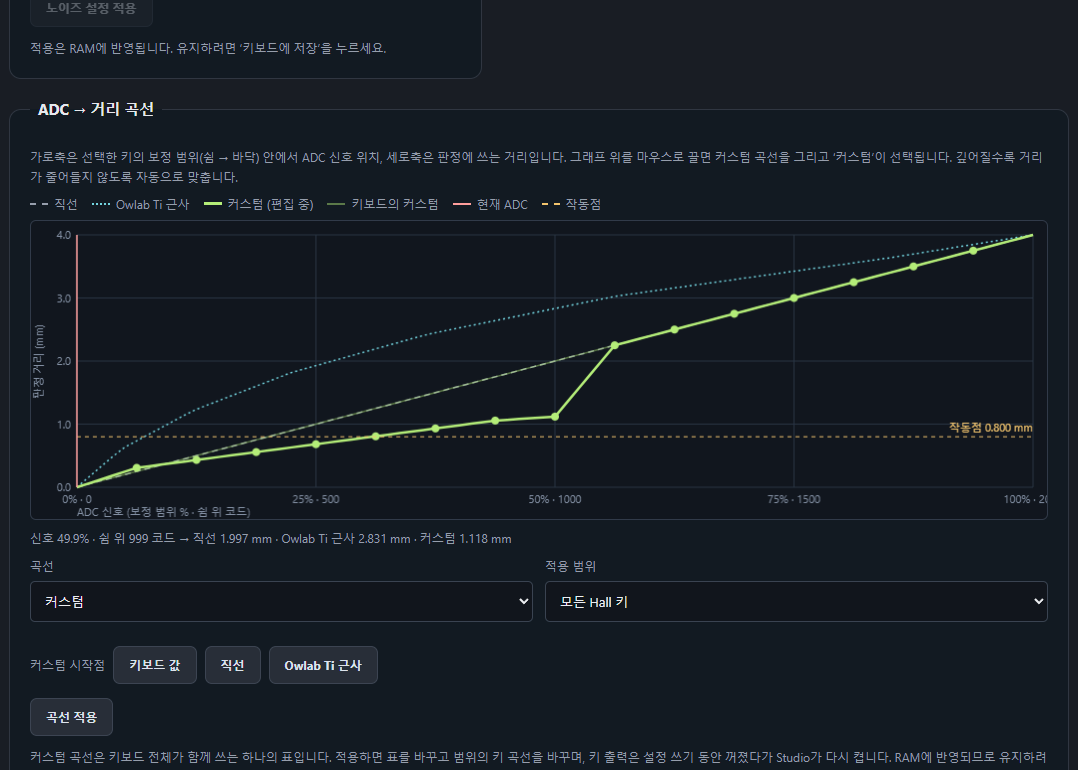
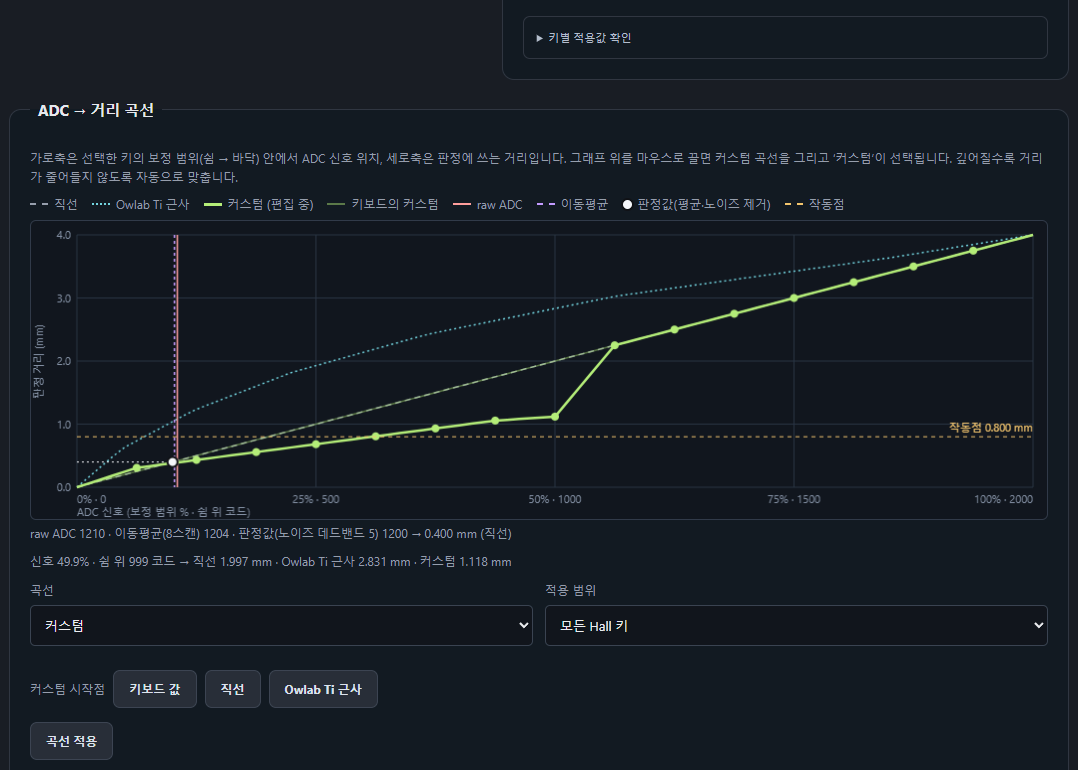
Show raw, averaged and decision ADC values on the curve graph
The ADC to distance card now polls ADC_COMPARE for the selected key and draws
the raw ADC code, the moving average and the post-deadband decision code; the
decision is plotted on the curve the key actually uses with its judged mm.
Right keys need firmware 0.3.47 for the decision value and only carry the
averaged code; older firmware falls back to the raw STATUS code.

diff --git a/web/index.html b/web/index.html
@@ -504,9 +504,10 @@
           <legend>ADC → 거리 곡선</legend>
           <p class="muted">가로축은 선택한 키의 보정 범위(쉼 → 바닥) 안에서 ADC 신호 위치, 세로축은 판정에 쓰는 거리입니다. 그래프 위를 마우스로 끌면 커스텀 곡선을 그리고 ‘커스텀’이 선택됩니다. 깊어질수록 거리가 줄어들지 않도록 자동으로 맞춥니다.</p>
           <div class="curve-legend" aria-hidden="true">
-            <span><i class="swatch linear"></i>직선</span><span><i class="swatch owlab"></i>Owlab Ti 근사</span><span><i class="swatch draft"></i>커스텀 (편집 중)</span><span><i class="swatch device"></i>키보드의 커스텀</span><span><i class="swatch live"></i>현재 ADC</span><span><i class="swatch actuation"></i>작동점</span>
+            <span><i class="swatch linear"></i>직선</span><span><i class="swatch owlab"></i>Owlab Ti 근사</span><span><i class="swatch draft"></i>커스텀 (편집 중)</span><span><i class="swatch device"></i>키보드의 커스텀</span><span><i class="swatch live"></i>raw ADC</span><span><i class="swatch average"></i>이동평균</span><span><i class="dot decision"></i>판정값(평균·노이즈 제거)</span><span><i class="swatch actuation"></i>작동점</span>
           </div>
           <div class="curve-canvas-wrap"><canvas id="curveCanvas" role="img" aria-label="ADC 신호 대비 판정 거리: 직선, Owlab Ti 근사, 커스텀 곡선"></canvas></div>
+          <p id="curveLive" class="curve-live" aria-live="polite"></p>
           <p id="curveReadout" class="muted" role="status"></p>
           <div class="curve-controls">
             <label>곡선<select id="curveKind"><option value="0">직선</option><option value="1">Owlab Ti 근사</option><option value="2">커스텀</option></select></label>

diff --git a/web/style.css b/web/style.css
@@ -1425,3 +1425,7 @@ body.measuring .key {
 .curve-controls label { font-size:12px; color:var(--muted); }
 .curve-presets { display:flex; flex-wrap:wrap; align-items:center; gap:8px; margin:0 0 14px; font-size:12px; }
 @media(max-width:520px) { .curve-canvas-wrap { height:240px; } }
+.curve-legend .average { border-top:2px dashed #c39bff; }
+.curve-legend .dot { display:inline-block; width:9px; height:9px; border-radius:50%; }
+.curve-legend .dot.decision { background:#f5f7fa; box-shadow:0 0 0 2px #101216; }
+.curve-live { font-size:12px; line-height:1.6; margin:2px 0 0; font-variant-numeric:tabular-nums; }
